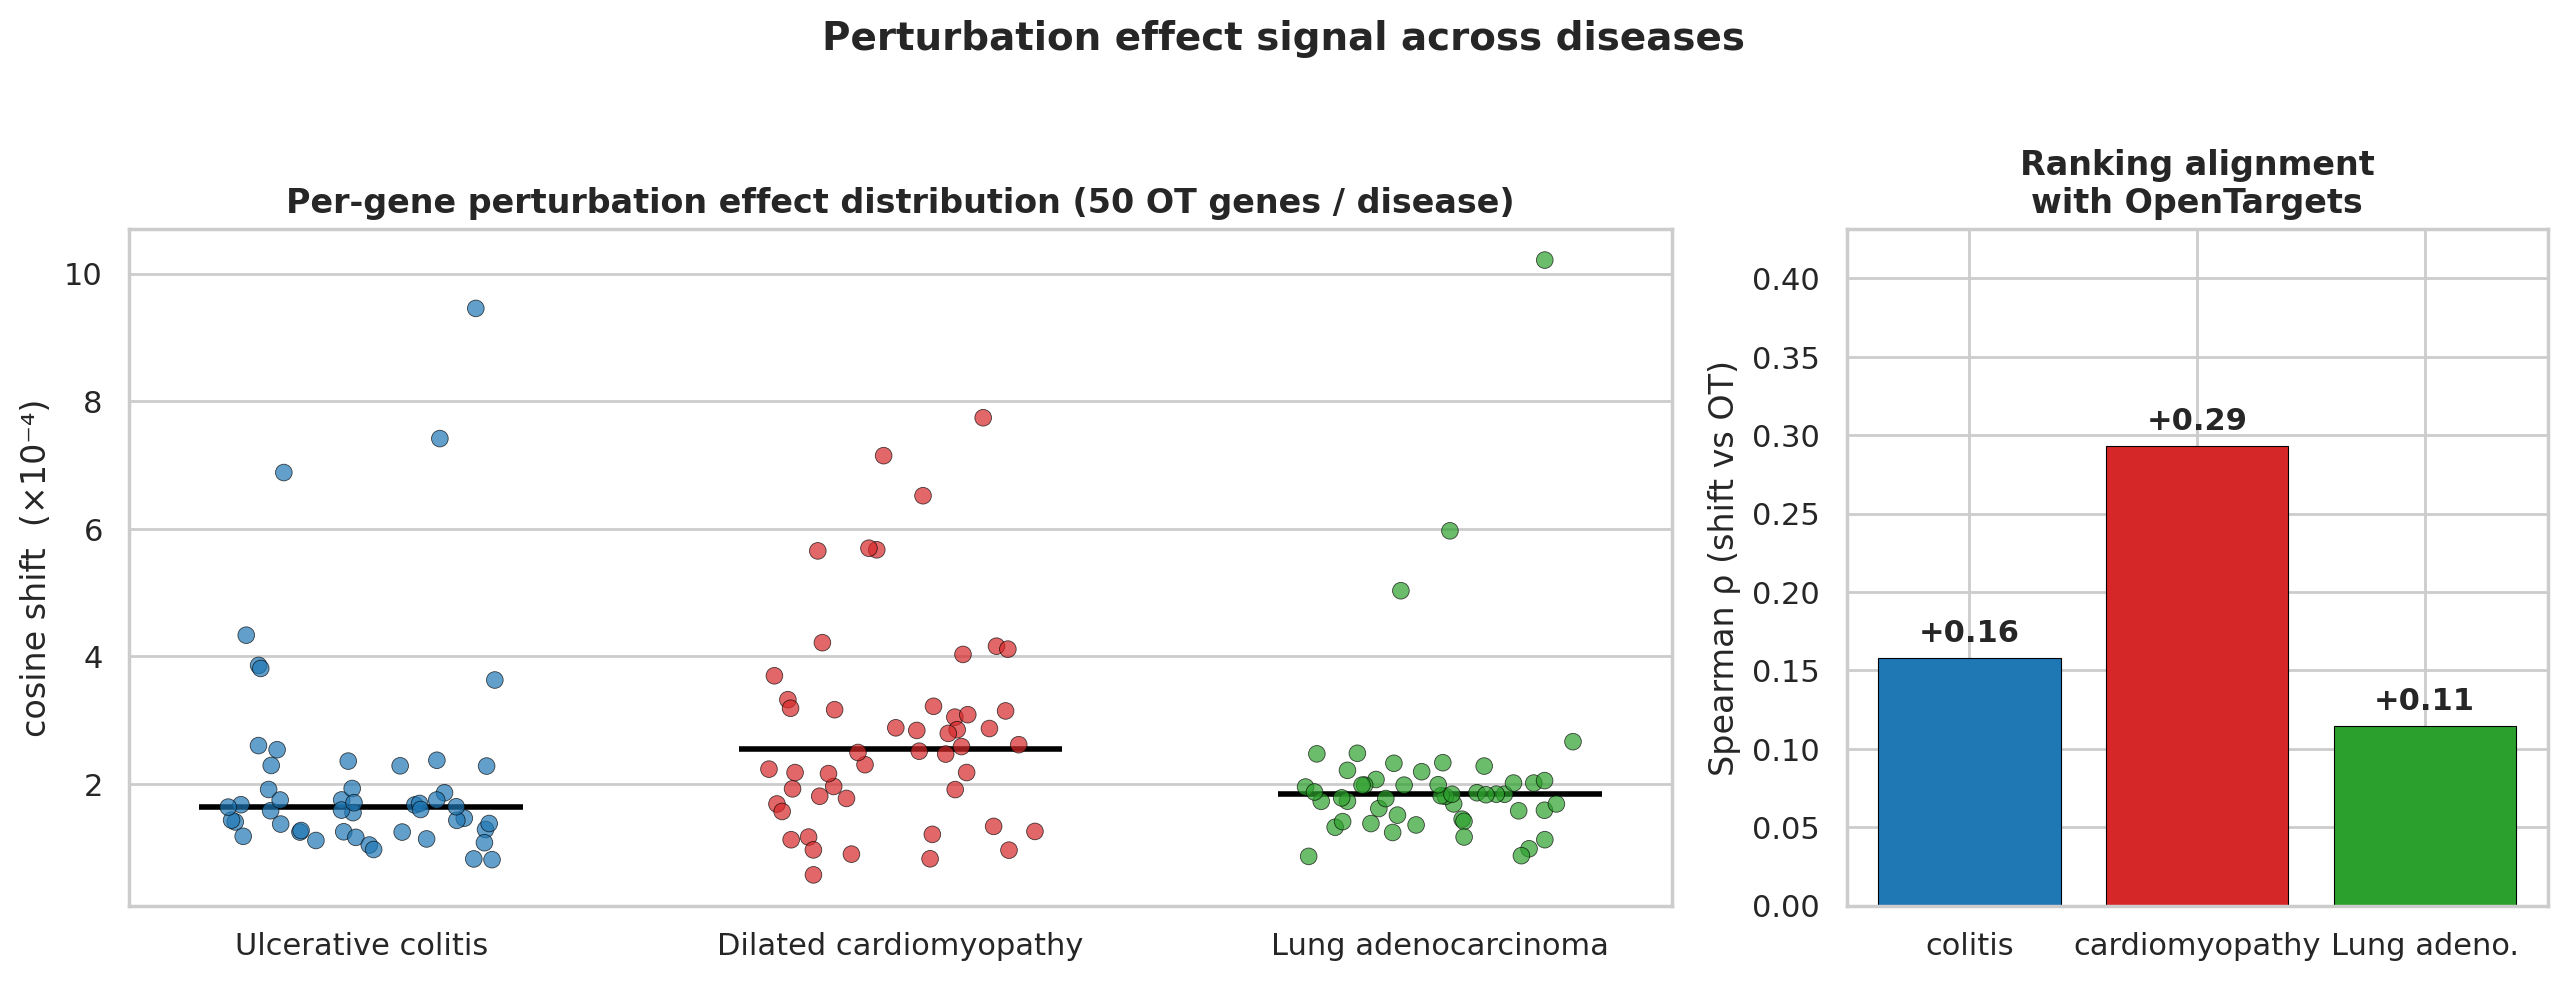
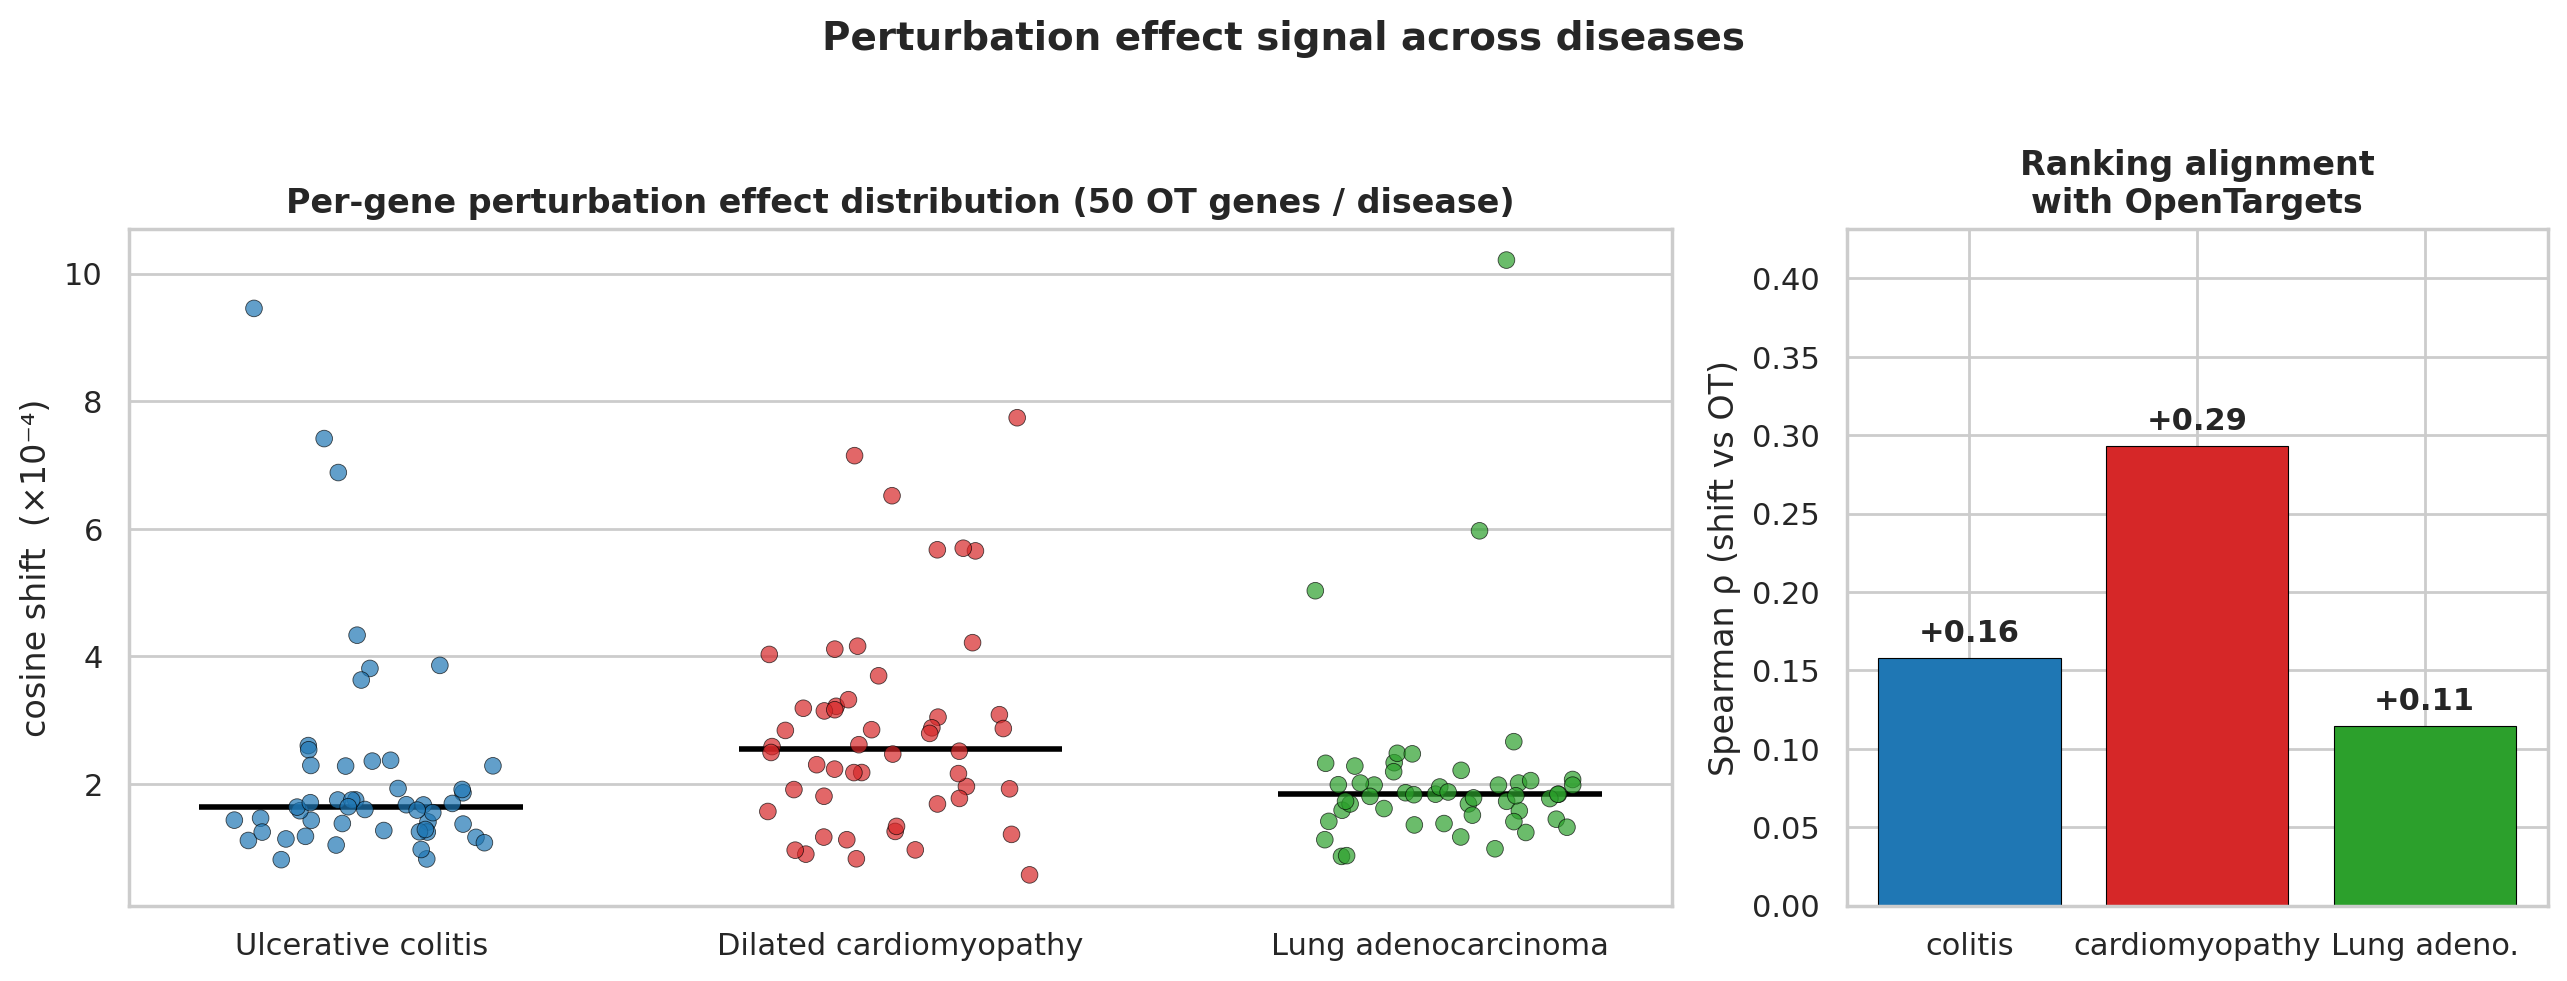
refactor: rename project RTX-CODE → CellProbe
The original "RTX-CODE" name was a placeholder referring to the original
local development GPU (RTX 4070 SUPER). After the pivot to AWS it carries
no meaning, and would be confusing for a public-facing repo.

"CellProbe" captures the actual methodology — linear probing of frozen
Geneformer single-cell embeddings — and is short enough for a GitHub
repo name and a candidature reference.

Changes:
  - All "RTX-CODE" / "rtx-code" / "RTX_CODE_DIR" → "CellProbe" /
    "cellprobe" / "CELLPROBE_DIR" across README, RESULTS, SETUP docs,
    shell wrappers, Python modules, AWS resource templates.
  - Re-tagged the live AWS instance + EBS volume Project=cellprobe so
    scripts/aws_status.sh continues to surface them.
  - Re-generated figures (no semantic change; timestamps + slight
    seaborn-jitter rerun differ).
  - Fixed a pre-existing typo in docs/SETUP_AWS.md: A10G is the GPU
    of g5 (not g6), and the describe-instance-type-offerings example
    filter had a duplicated g6.xlarge instead of g5.xlarge.

diff --git a/scripts/make_figures.py b/scripts/make_figures.py
@@ -1,4 +1,4 @@
-"""Generate the comparative figures for the RTX-CODE project.
+"""Generate the comparative figures for the CellProbe project.
 
 Reads from `results/` (committed JSONs) and writes PNG + PDF to
 `results/figures/`. Pure matplotlib + seaborn — no GPU or BioNeMo needed.

diff --git a/src/perturb/validate.py b/src/perturb/validate.py
@@ -31,7 +31,7 @@ from typing import Any
 import yaml
 
 OT_GRAPHQL_URL = "https://api.platform.opentargets.org/api/v4/graphql"
-USER_AGENT = "rtx-code/0.1 (https://github.com/.../rtx-code)"
+USER_AGENT = "cellprobe/0.1 (https://github.com/.../cellprobe)"
 
 QUERY = """
 query DiseaseTargets($efoId: String!, $size: Int!) {

diff --git a/docs/SETUP_AWS.md b/docs/SETUP_AWS.md
@@ -7,7 +7,7 @@ For the original local-GPU procedure (RTX 4070 SUPER on WSL2), see [`SETUP.md`](
 ## Why this stack
 
 - **Region `eu-west-3` (Paris)** — EMEA data residency. The data we use here is public (CELLxGENE), but a real pharma customer needs EU residency for any patient-derived omics. Defending region choice is part of the SA pitch.
-- **Instance `g6.xlarge`** — 1× NVIDIA L4 (24 GB VRAM, Ada Lovelace), 4 vCPU, 16 GB RAM, ~$0.805/h on-demand. **Note**: `g6.xlarge` (A10G) is **not offered in `eu-west-3` as of 2026-05** — only `g4dn` (T4, Turing) and `g6` (L4, Ada Lovelace) are. L4 is the newer of the two, cheaper than A10G would have been, and ships fast FP8/INT8 tensor cores — strictly an upgrade. Step up to `g6.2xlarge` (same GPU, more RAM/CPU) only if data loading bottlenecks. Check availability in your region with `aws ec2 describe-instance-type-offerings --location-type availability-zone --filters Name=instance-type,Values=g6.xlarge,g6.xlarge,g4dn.xlarge`.
+- **Instance `g6.xlarge`** — 1× NVIDIA L4 (24 GB VRAM, Ada Lovelace), 4 vCPU, 16 GB RAM, ~$0.805/h on-demand. **Note**: `g5.xlarge` (NVIDIA A10G, Ampere) is **not offered in `eu-west-3` as of 2026-05** — only `g4dn` (T4, Turing) and `g6` (L4, Ada Lovelace) are. L4 is the newer of the two, cheaper than A10G would have been on g5, and ships fast FP8/INT8 tensor cores — strictly an upgrade. Step up to `g6.2xlarge` (same GPU, more RAM/CPU) only if data loading bottlenecks. Check availability in your region with `aws ec2 describe-instance-type-offerings --location-type availability-zone --filters Name=instance-type,Values=g5.xlarge,g6.xlarge,g4dn.xlarge`.
 - **AMI: Deep Learning OSS Nvidia Driver AMI GPU PyTorch — Ubuntu 22.04** — AWS-maintained AMI with the NVIDIA driver, CUDA, Docker, and the NVIDIA Container Toolkit pre-installed. Saves a full day of setup vs a vanilla Ubuntu AMI.
 - **Storage `gp3` 100 GB** — BioNeMo container (~55 GB) + cache (~10 GB) + datasets (~5 GB) + working room. gp3 is the default modern EBS volume, 3000 IOPS / 125 MB/s baseline, plenty for our I/O.
 - **Stop-when-idle billing** — `stop` (not `terminate`) the instance between sessions. Compute billing pauses; EBS storage continues at ~$8/month for 100 GB. Cheaper than keeping the instance running.
@@ -43,11 +43,11 @@ Track the request in the AWS console → **Service Quotas → EC2 → Running On
 ```bash
 # Generate a dedicated key for this project (keep it local; never commit)
 aws ec2 create-key-pair \
-  --key-name rtx-code-key \
+  --key-name cellprobe-key \
   --key-type ed25519 \
   --query 'KeyMaterial' \
-  --output text > ~/.ssh/rtx-code-key.pem
-chmod 600 ~/.ssh/rtx-code-key.pem
+  --output text > ~/.ssh/cellprobe-key.pem
+chmod 600 ~/.ssh/cellprobe-key.pem
 ```
 
 ### 2.2 Security group (SSH from your IP only)
@@ -57,11 +57,11 @@ chmod 600 ~/.ssh/rtx-code-key.pem
 MYIP=$(curl -s https://checkip.amazonaws.com)/32
 
 aws ec2 create-security-group \
-  --group-name rtx-code-sg \
-  --description "SSH to rtx-code dev instance"
+  --group-name cellprobe-sg \
+  --description "SSH to cellprobe dev instance"
 
 aws ec2 authorize-security-group-ingress \
-  --group-name rtx-code-sg \
+  --group-name cellprobe-sg \
   --protocol tcp --port 22 --cidr "$MYIP"
 ```
 
@@ -86,10 +86,10 @@ Note the `ami-xxxxxxxx` ID returned.
 aws ec2 run-instances \
   --image-id ami-XXXXXXXXXXXX \
   --instance-type g6.xlarge \
-  --key-name rtx-code-key \
-  --security-groups rtx-code-sg \
+  --key-name cellprobe-key \
+  --security-groups cellprobe-sg \
   --block-device-mappings 'DeviceName=/dev/sda1,Ebs={VolumeSize=100,VolumeType=gp3,DeleteOnTermination=true}' \
-  --tag-specifications 'ResourceType=instance,Tags=[{Key=Name,Value=rtx-code-dev},{Key=Project,Value=rtx-code}]' \
+  --tag-specifications 'ResourceType=instance,Tags=[{Key=Name,Value=cellprobe-dev},{Key=Project,Value=cellprobe}]' \
   --query 'Instances[0].InstanceId' \
   --output text
 ```
@@ -106,7 +106,7 @@ aws ec2 describe-instances --instance-ids $INSTANCE_ID \
 ### 2.5 SSH
 
 ```bash
-ssh -i ~/.ssh/rtx-code-key.pem ubuntu@<public-dns-from-above>
+ssh -i ~/.ssh/cellprobe-key.pem ubuntu@<public-dns-from-above>
 ```
 
 Add this to `~/.ssh/config` for convenience:
@@ -115,7 +115,7 @@ Add this to `~/.ssh/config` for convenience:
 Host aws-rtx
     HostName <public-dns>
     User ubuntu
-    IdentityFile ~/.ssh/rtx-code-key.pem
+    IdentityFile ~/.ssh/cellprobe-key.pem
 ```
 
 Then just `ssh aws-rtx`.
@@ -164,10 +164,10 @@ The pull is ~55 GB and runs at full ENI bandwidth on g6 (≈10 Gbps) — typical
 
 ```bash
 # On the EC2 instance
-git clone https://github.com/<your-username>/rtx-code.git ~/rtx-code
+git clone https://github.com/<your-username>/cellprobe.git ~/cellprobe
 
 mkdir -p ~/bionemo-cache ~/bionemo-workspace
-ln -sf ~/rtx-code ~/bionemo-workspace/rtx-code
+ln -sf ~/cellprobe ~/bionemo-workspace/cellprobe
 ```
 
 The cache directory persists across container runs (and across instance stop/start, because it sits on the EBS root volume, not container ephemeral storage).
@@ -181,8 +181,8 @@ The datasets we already pulled on the local PC are not accessible from the EC2 i
 docker run --rm --gpus all \
   --ipc=host --ulimit memlock=-1 --ulimit stack=67108864 \
   -v ~/bionemo-cache:/root/.cache/bionemo \
-  -v ~/rtx-code:/workspace/rtx-code \
-  -w /workspace/rtx-code \
+  -v ~/cellprobe:/workspace/cellprobe \
+  -w /workspace/cellprobe \
   nvcr.io/nvidia/clara/bionemo-framework:2.7.1 \
   python -u -m src.data.download --config configs/diseases.yaml --out data/
 ```
@@ -199,18 +199,18 @@ Same procedure as the local one. Pull the Geneformer 10M checkpoint and the CELL
 docker run --rm --gpus all \
   --ipc=host --ulimit memlock=-1 --ulimit stack=67108864 \
   -v ~/bionemo-cache:/root/.cache/bionemo \
-  -v ~/rtx-code:/workspace/rtx-code \
+  -v ~/cellprobe:/workspace/cellprobe \
   nvcr.io/nvidia/clara/bionemo-framework:2.7.1 bash -c '
 download_bionemo_data geneformer/10M_241113:2.0 --source ngc
 download_bionemo_data single_cell/testdata-20240506 --source ngc
 
 CKPT_DIR=$(find /root/.cache/bionemo -type d -path "*geneformer_10M*.untar" | head -1)
 DATA_DIR=$(find /root/.cache/bionemo -type d -path "*scdl/test" | head -1)
-mkdir -p /workspace/rtx-code/results/smoke-test
-python /workspace/rtx-code/scripts/infer_wrapper.py \
+mkdir -p /workspace/cellprobe/results/smoke-test
+python /workspace/cellprobe/scripts/infer_wrapper.py \
   --data-dir $DATA_DIR \
   --checkpoint-path $CKPT_DIR \
-  --results-path /workspace/rtx-code/results/smoke-test \
+  --results-path /workspace/cellprobe/results/smoke-test \
   --precision bf16-mixed \
   --include-hiddens \
   --micro-batch-size 4 \
@@ -237,9 +237,9 @@ aws ec2 wait instance-running --instance-ids $INSTANCE_ID
 
 # Definitive cleanup at end-of-project (deletes the EBS volume — back up `data/` and `results/` first)
 aws ec2 terminate-instances --instance-ids $INSTANCE_ID
-aws ec2 delete-security-group --group-name rtx-code-sg
-aws ec2 delete-key-pair --key-name rtx-code-key
-rm ~/.ssh/rtx-code-key.pem
+aws ec2 delete-security-group --group-name cellprobe-sg
+aws ec2 delete-key-pair --key-name cellprobe-key
+rm ~/.ssh/cellprobe-key.pem
 ```
 
 Estimated total project cost (Paris, on-demand):
@@ -258,8 +258,8 @@ Well within the $50–100 envelope.
 Two-step pipeline, both wrapped in `scripts/run_data_pipeline.sh`:
 
 ```bash
-# On the EC2 instance, with the repo synced to ~/bionemo-workspace/rtx-code
-cd ~/bionemo-workspace/rtx-code
+# On the EC2 instance, with the repo synced to ~/bionemo-workspace/cellprobe
+cd ~/bionemo-workspace/cellprobe
 ./scripts/run_data_pipeline.sh           # all 3 diseases
 ./scripts/run_data_pipeline.sh --only dcm  # one disease only
 ./scripts/run_data_pipeline.sh --force   # overwrite existing outputs

diff --git a/RESULTS.md b/RESULTS.md
@@ -145,8 +145,8 @@ The positive but sub-unity correlations are the central message: **Geneformer's 
 # On a g6.xlarge in eu-west-3 with the data pipeline + probe pipeline already done
 docker run --rm --gpus all \
   --ipc=host --ulimit memlock=-1 --ulimit stack=67108864 \
-  -v ~/bionemo-cache:/cache -v ~/bionemo-workspace/rtx-code:/workspace/rtx-code \
-  -w /workspace/rtx-code --user $(id -u):$(id -g) -e HOME=/tmp -e BIONEMO_CACHE=/cache \
+  -v ~/bionemo-cache:/cache -v ~/bionemo-workspace/cellprobe:/workspace/cellprobe \
+  -w /workspace/cellprobe --user $(id -u):$(id -g) -e HOME=/tmp -e BIONEMO_CACHE=/cache \
   nvcr.io/nvidia/clara/bionemo-framework:2.7.1 \
   python -u -m src.perturb.perturb \
     --disease uc --n-cells 200 --top-tokens 100 --max-genes 50 \

diff --git a/README.md b/README.md
@@ -1,4 +1,4 @@
-# RTX-CODE
+# CellProbe
 
 **Drug-target identification across three indications using NVIDIA BioNeMo's Geneformer foundation model.**
 

diff --git a/docs/PROJECT_HISTORY.md b/docs/PROJECT_HISTORY.md
@@ -14,7 +14,7 @@
 
 ---
 
-# RTX-CODE — Fine-tuning Geneformer with NVIDIA BioNeMo (original plan)
+# CellProbe — Fine-tuning Geneformer with NVIDIA BioNeMo (original plan)
 
 ## Context
 